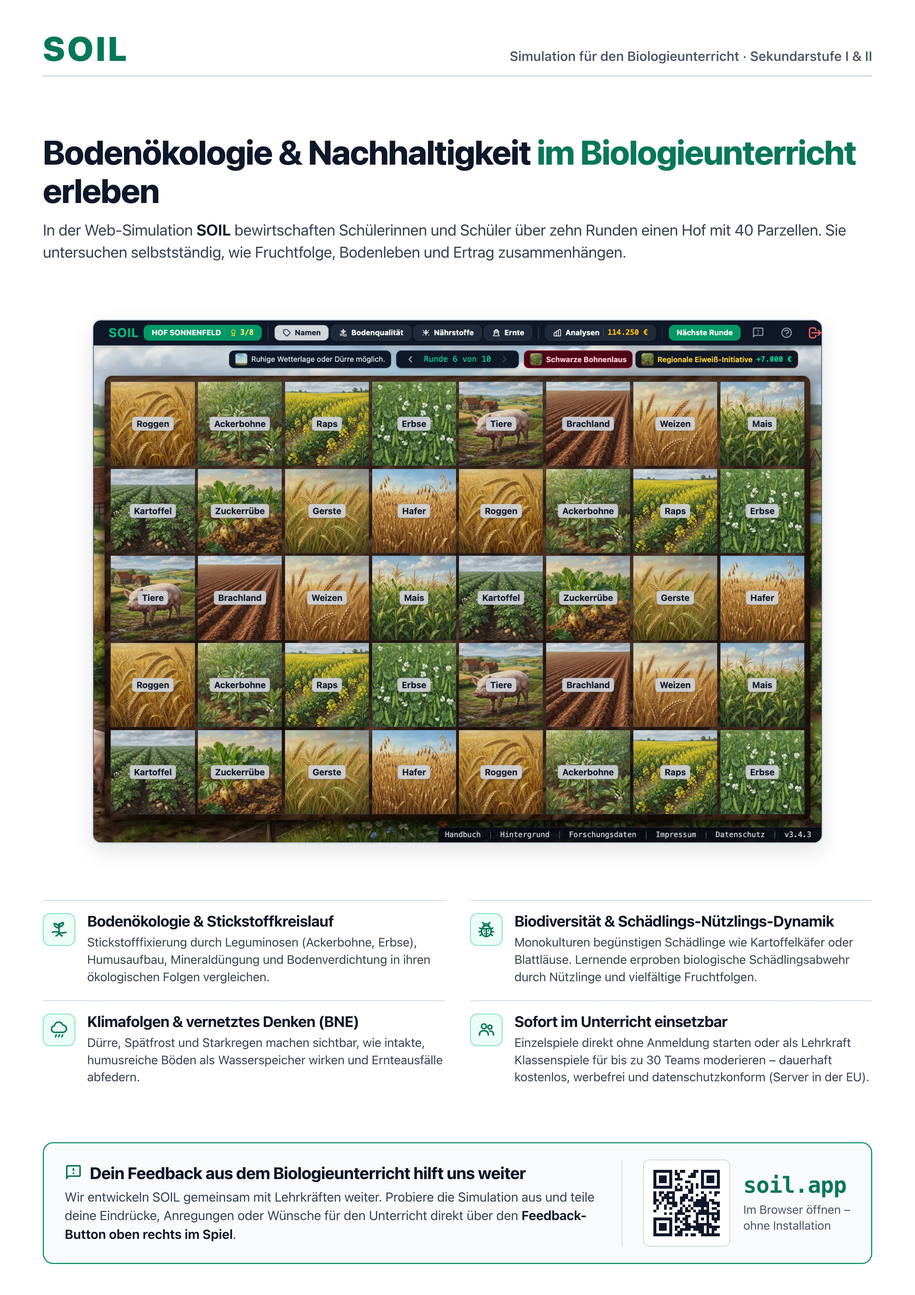
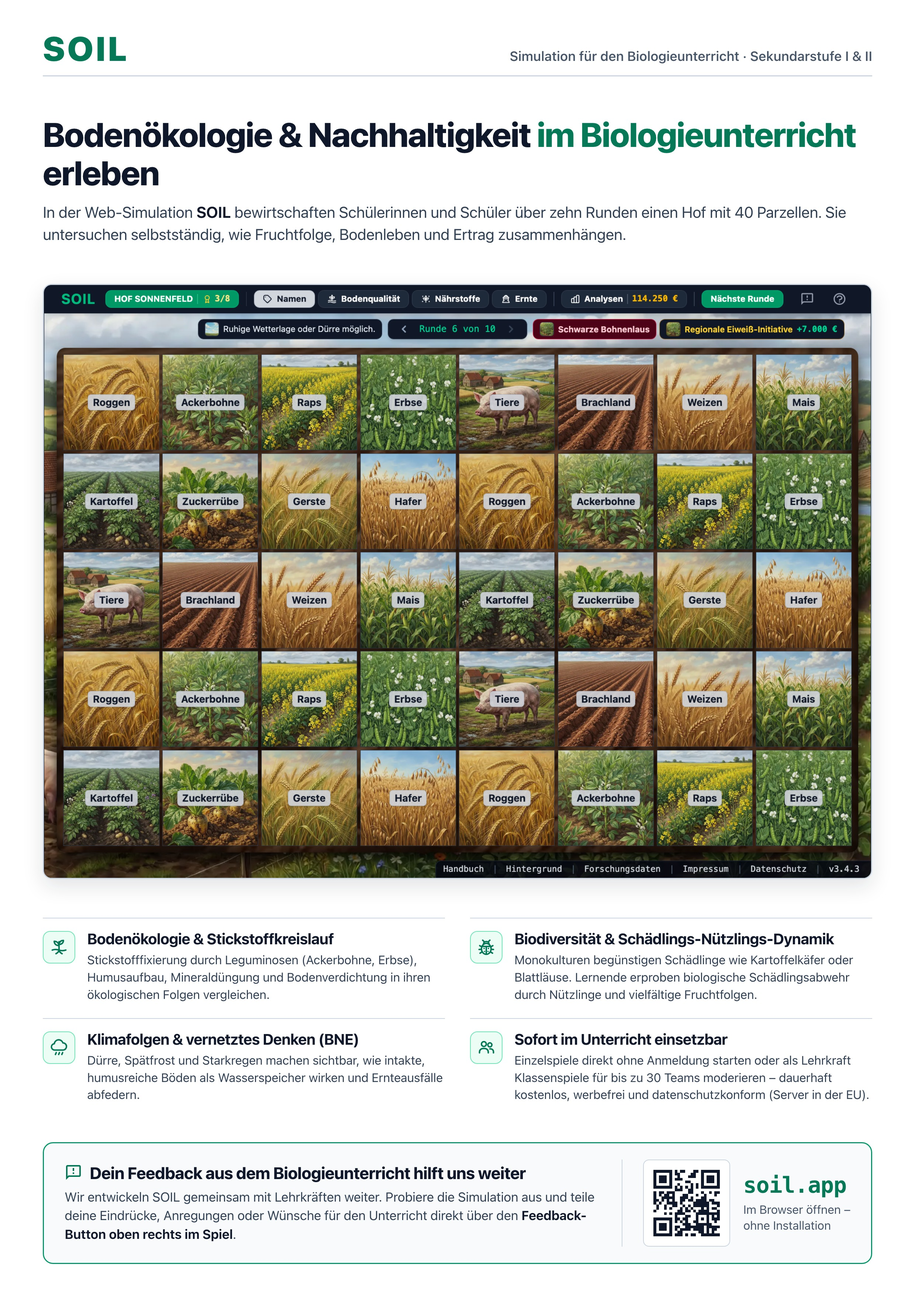
fix(hud): hide logout button for local guests and expand flyer screenshot to full text width

diff --git a/src/app/game/board/components/board-hud.html b/src/app/game/board/components/board-hud.html
@@ -407,21 +407,23 @@
         <path stroke-linecap="round" stroke-linejoin="round" stroke-width="2" d="M8.228 9c.549-1.165 2.03-2 3.772-2 2.21 0 4 1.343 4 3 0 1.4-1.278 2.575-3.006 2.907-.542.104-.994.54-.994 1.093m0 3h.01M21 12a9 9 0 11-18 0 9 9 0 0118 0z" />
       </svg>
     </button>
-    <button
-      (click)="logout.emit()"
-      data-testid="logout-button"
-      class="p-1.5 sm:p-2 hover:bg-red-900/30 rounded-lg text-red-400 hover:text-red-300 transition w-8 h-8 sm:w-10 sm:h-10 flex items-center justify-center shrink-0 cursor-pointer"
-      [title]="t('board.logout.title')"
-      [attr.aria-label]="t('board.logout.title')"
-    >
-      <svg xmlns="http://www.w3.org/2000/svg" class="h-6 w-6" fill="none" viewBox="0 0 24 24" stroke="currentColor">
-        <path
-          stroke-linecap="round"
-          stroke-linejoin="round"
-          stroke-width="2"
-          d="M17 16l4-4m0 0l-4-4m4 4H7m6 4v1a3 3 0 01-3 3H6a3 3 0 01-3-3V7a3 3 0 013-3h4a3 3 0 013 3v1"
-        />
-      </svg>
-    </button>
+    @if (!user?.isAnonymous && !isResearchReplay) {
+      <button
+        (click)="logout.emit()"
+        data-testid="logout-button"
+        class="p-1.5 sm:p-2 hover:bg-red-900/30 rounded-lg text-red-400 hover:text-red-300 transition w-8 h-8 sm:w-10 sm:h-10 flex items-center justify-center shrink-0 cursor-pointer"
+        [title]="t('board.logout.title')"
+        [attr.aria-label]="t('board.logout.title')"
+      >
+        <svg xmlns="http://www.w3.org/2000/svg" class="h-6 w-6" fill="none" viewBox="0 0 24 24" stroke="currentColor">
+          <path
+            stroke-linecap="round"
+            stroke-linejoin="round"
+            stroke-width="2"
+            d="M17 16l4-4m0 0l-4-4m4 4H7m6 4v1a3 3 0 01-3 3H6a3 3 0 01-3-3V7a3 3 0 013-3h4a3 3 0 013 3v1"
+          />
+        </svg>
+      </button>
+    }
   </div>
 </div>

diff --git a/marketing/flyer-dark.html b/marketing/flyer-dark.html
@@ -119,11 +119,9 @@
       font-weight: 650;
     }
 
-    /* 3. Clean Screenshot Frame */
+    /* 3. Clean Screenshot Frame (Full width matching text) */
     .screenshot-frame {
       width: 100%;
-      max-width: 990px;
-      margin: 0 auto;
       aspect-ratio: 1920 / 1377;
       border-radius: 12px;
       overflow: hidden;

diff --git a/marketing/flyer-light.html b/marketing/flyer-light.html
@@ -95,11 +95,9 @@
       font-weight: 650;
     }
 
-    /* 3. Clean Screenshot Frame */
+    /* 3. Clean Screenshot Frame (Full width matching text) */
     .screenshot-frame {
       width: 100%;
-      max-width: 990px;
-      margin: 0 auto;
       aspect-ratio: 1920 / 1377;
       border-radius: 12px;
       overflow: hidden;

diff --git a/CHANGELOG.md b/CHANGELOG.md
@@ -4,7 +4,7 @@ All notable changes to this project will be documented in this file.
 
 ## [Unpublished]
 ### Added
-- Replaced `public/SOIL-screenshot.jpg` with a lossless `public/SOIL-screenshot.png` (`1920x1377` px, `v3.4.3`, enlarged UI and parcel label typography) across `public/site.webmanifest`, OpenGraph/Twitter meta tags (`src/index.html`), trailer poster (`src/app/landing/landing.html`), and video sitemap metadata (`src/app/app.routes.ts`, `src/server.ts`, `public/sitemap.xml`), and added print-ready DIN A4 biology classroom flyers (dark and light print-friendly variants at `2480x3508` px, 300 DPI) along with automated capture/rendering templates and scripts in `marketing/` (`marketing/flyer-dark.html`, `marketing/flyer-light.html`, `marketing/generate-flyer.mjs`, `marketing/capture-screenshot.mjs`).
+- Replaced `public/SOIL-screenshot.jpg` with a lossless `public/SOIL-screenshot.png` (`1920x1377` px, `v3.4.3`, enlarged UI and parcel label typography) across `public/site.webmanifest`, OpenGraph/Twitter meta tags (`src/index.html`), trailer poster (`src/app/landing/landing.html`), and video sitemap metadata (`src/app/app.routes.ts`, `src/server.ts`, `public/sitemap.xml`), hid the HUD logout button for unauthenticated local guest sessions (`src/app/game/board/components/board-hud.html`), and added print-ready DIN A4 biology classroom flyers (dark and light print-friendly variants at `2480x3508` px, 300 DPI) along with automated capture/rendering templates and scripts in `marketing/` (`marketing/flyer-dark.html`, `marketing/flyer-light.html`, `marketing/generate-flyer.mjs`, `marketing/capture-screenshot.mjs`).
 
 ## [3.4.3] - 2026-11-01
 ### Fixed
